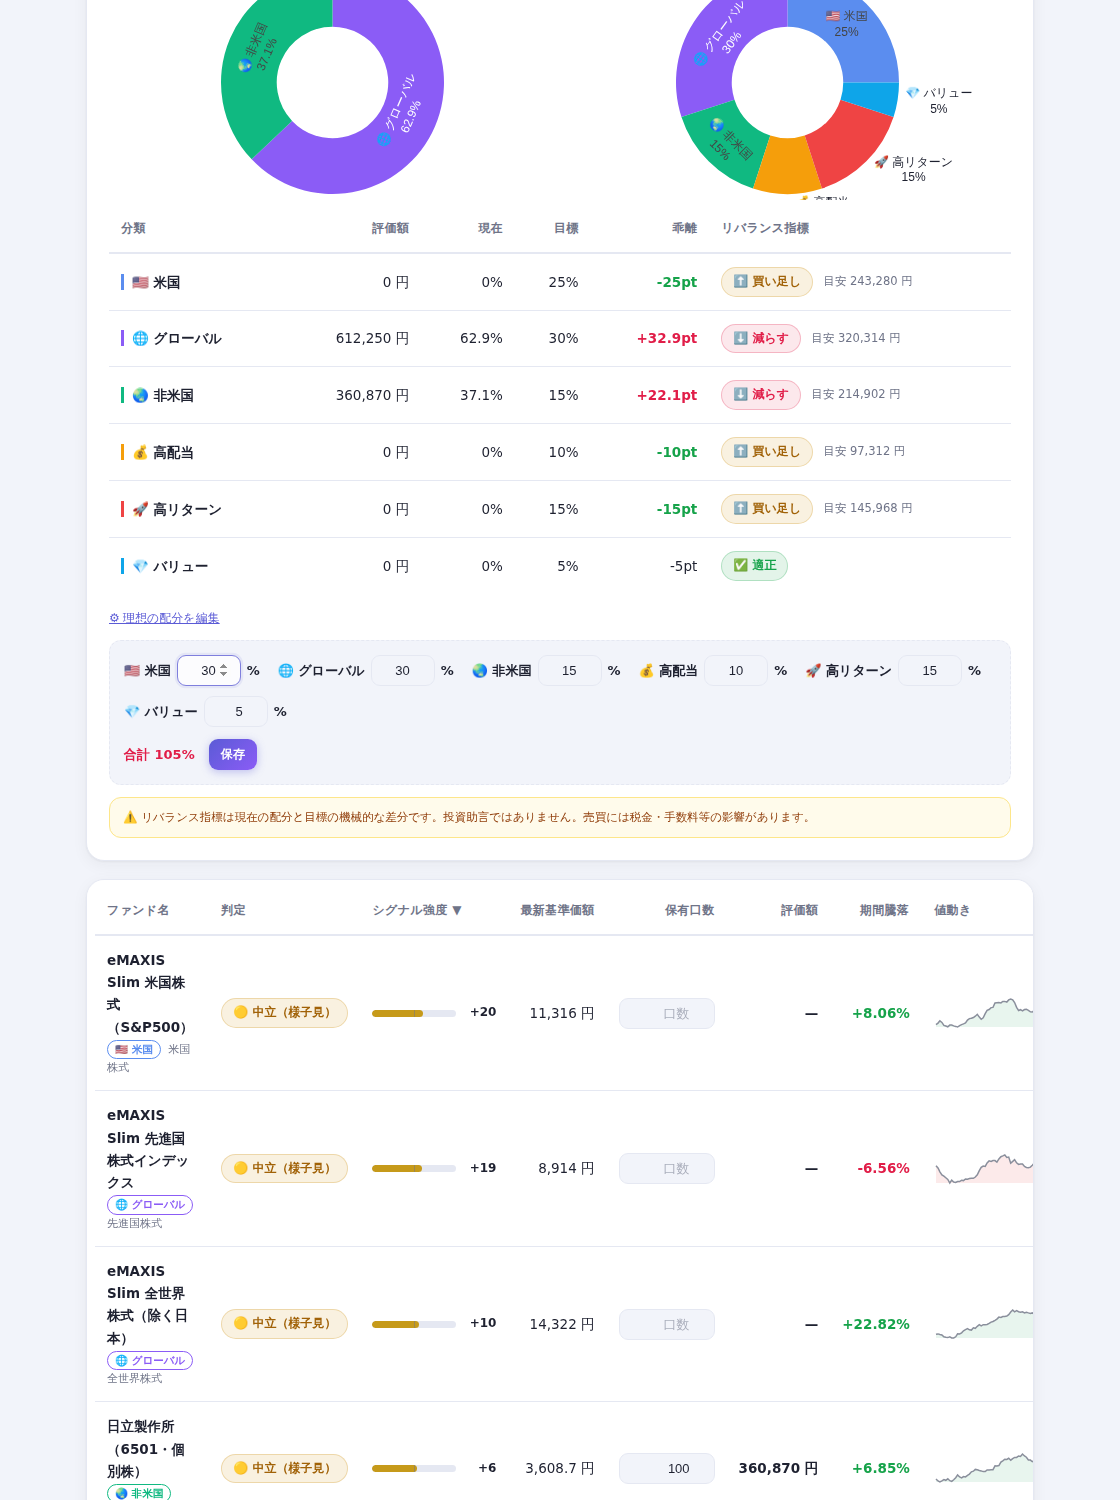
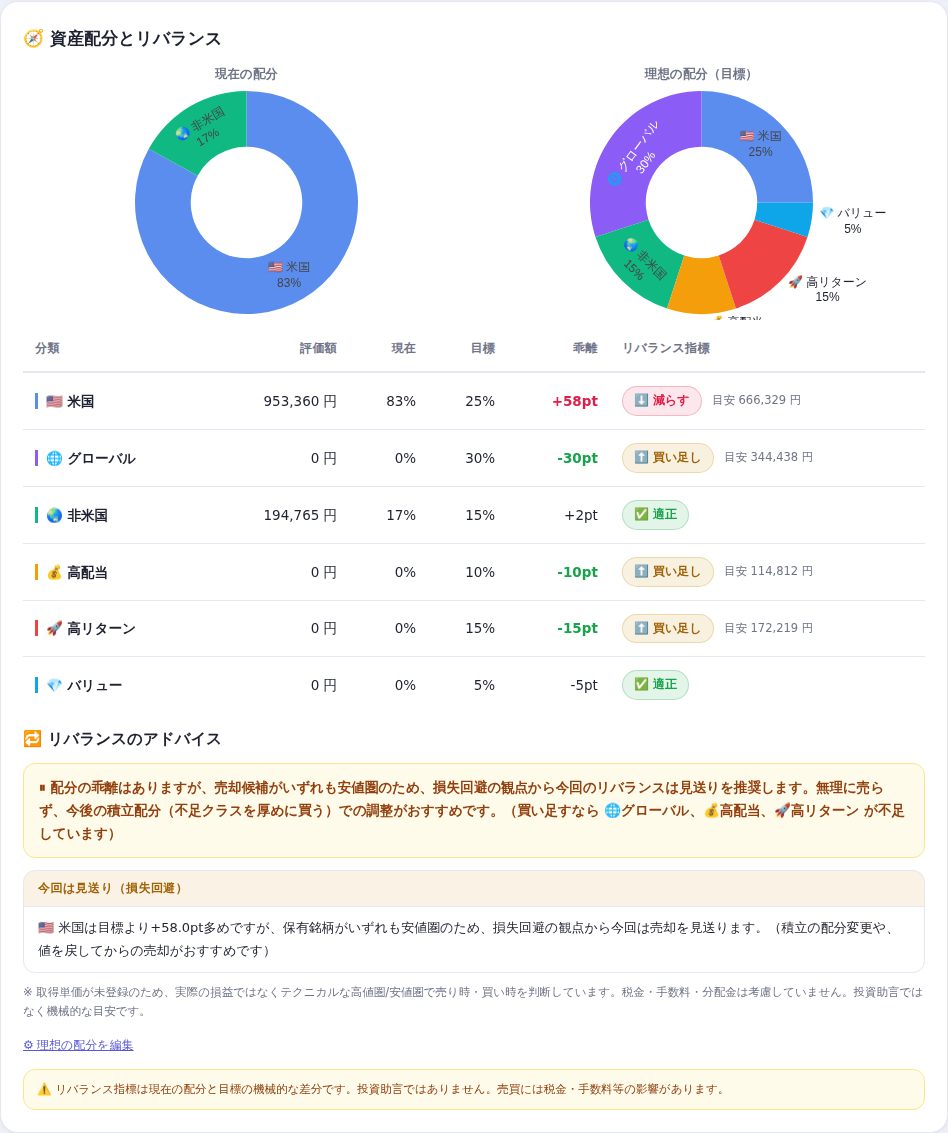
リバランスの具体的な売買アドバイス（売り時/買い時考慮・損失回避の見送り付き）
- どの商品を約いくら売却し、その資金でどのクラスのどの商品を購入すべきかを提示
- 売却はテクニカルで高値圏（過熱=売り時）の銘柄を優先。安値圏の銘柄は
  損失につながりやすいため売却対象から除外
- 過剰クラスの保有が全て安値圏なら「無理にリバランスせず見送り」を提案し、
  積立配分での調整を案内（不足クラス名も表示）
- 乖離が±5pt以内なら「リバランスの必要なし」を表示
- 不足クラスの購入候補はウォッチリスト→内蔵カタログの順で提示（買い時判定付き）
- 取得単価未登録のためテクニカル判断である旨・税金手数料非考慮を明記

Claude-Session: https://claude.ai/code/session_01Haqup2NBS92RVAKcMwLDHU

diff --git a/fund-timing/static/app.js b/fund-timing/static/app.js
@@ -141,6 +141,55 @@ function renderAllocation(alloc) {
   }).join("");
 
   buildTargetInputs(alloc.targets || {});
+  renderRebalancePlan(alloc.plan);
+}
+
+function renderRebalancePlan(plan) {
+  const el = $("rebalance-plan");
+  if (!plan) { el.innerHTML = ""; return; }
+
+  if (plan.status === "no_units") {
+    el.innerHTML = `<div class="plan-banner neutral">💡 ${escapeHtml(plan.summary)}</div>`;
+    return;
+  }
+  if (plan.status === "none") {
+    el.innerHTML = `<div class="plan-banner good">${escapeHtml(plan.summary)}</div>`;
+    return;
+  }
+
+  let html = `<h3 class="plan-title">🔁 リバランスのアドバイス</h3>`;
+  html += `<div class="plan-banner ${plan.status === "defer" ? "warn" : "info"}">${escapeHtml(plan.summary)}</div>`;
+
+  if (plan.sells && plan.sells.length) {
+    html += `<div class="plan-section"><div class="plan-head sell-head">売却する商品</div>` +
+      plan.sells.map((s) => `
+        <div class="plan-row">
+          <span class="plan-cls">${s.icon} ${escapeHtml(s.cls)}</span>
+          <span class="plan-name">${escapeHtml(s.name)}</span>
+          <span class="plan-amount">約 ${Number(s.amount).toLocaleString()} 円</span>
+          <span class="plan-timing">${escapeHtml(s.timing_label)}</span>
+        </div>`).join("") + `</div>`;
+  }
+
+  if (plan.buys && plan.buys.length) {
+    html += `<div class="plan-section"><div class="plan-head buy-head">売却資金で購入する商品</div>` +
+      plan.buys.map((b) => `
+        <div class="plan-row">
+          <span class="plan-cls">${b.icon} ${escapeHtml(b.cls)}</span>
+          <span class="plan-name">${escapeHtml(b.name)}${b.in_watchlist ? "" : '<span class="plan-tag">内蔵リストより</span>'}</span>
+          <span class="plan-amount">約 ${Number(b.amount).toLocaleString()} 円</span>
+          <span class="plan-timing">${escapeHtml(b.timing_label)}</span>
+        </div>`).join("") + `</div>`;
+  }
+
+  if (plan.deferred && plan.deferred.length) {
+    html += `<div class="plan-section"><div class="plan-head defer-head">今回は見送り（損失回避）</div>` +
+      plan.deferred.map((d) => `
+        <div class="plan-defer">${d.icon} ${escapeHtml(d.reason)}</div>`).join("") + `</div>`;
+  }
+
+  if (plan.note) html += `<p class="plan-note">${escapeHtml(plan.note)}</p>`;
+  el.innerHTML = html;
 }
 
 function buildTargetInputs(targets) {

diff --git a/fund-timing/static/style.css b/fund-timing/static/style.css
@@ -428,3 +428,28 @@ tr:hover .row-del { opacity: 1; }
   border-radius: 5px; padding: 0 5px; margin-right: 4px;
 }
 @media (max-width: 680px) { .alloc-charts { grid-template-columns: 1fr; } }
+
+/* ------------------------------------------------ リバランスのアドバイス */
+.rebalance-plan { margin-top: 14px; }
+.plan-title { font-size: 15.5px; margin: 4px 0 10px; }
+.plan-banner { padding: 12px 15px; border-radius: 12px; font-size: 13.5px; font-weight: 600; line-height: 1.7; }
+.plan-banner.good { background: rgba(22,163,74,.10); color: var(--buy); border: 1px solid rgba(22,163,74,.25); }
+.plan-banner.info { background: rgba(91,91,214,.08); color: var(--accent); border: 1px solid rgba(91,91,214,.25); }
+.plan-banner.warn { background: #fffbeb; color: #92400e; border: 1px solid #fde68a; }
+.plan-banner.neutral { background: var(--bg); color: var(--ink-soft); border: 1px dashed var(--line); }
+.plan-section { margin-top: 12px; border: 1px solid var(--line); border-radius: 12px; overflow: hidden; }
+.plan-head { font-size: 12px; font-weight: 800; padding: 8px 14px; letter-spacing: .04em; }
+.sell-head { background: rgba(225,29,72,.08); color: var(--sell); }
+.buy-head { background: rgba(22,163,74,.08); color: var(--buy); }
+.defer-head { background: rgba(202,138,4,.10); color: #a16207; }
+.plan-row { display: flex; align-items: center; gap: 12px; padding: 10px 14px; border-top: 1px solid var(--line); flex-wrap: wrap; }
+.plan-cls { flex: 0 0 auto; font-size: 12px; font-weight: 700; white-space: nowrap; }
+.plan-name { flex: 1 1 200px; font-size: 13.5px; font-weight: 600; }
+.plan-amount { flex: 0 0 auto; font-weight: 800; font-variant-numeric: tabular-nums; white-space: nowrap; }
+.plan-timing { flex: 0 0 auto; font-size: 12px; white-space: nowrap; }
+.plan-tag { display: inline-block; margin-left: 6px; font-size: 10.5px; font-weight: 700; color: var(--accent); border: 1px solid var(--accent); border-radius: 999px; padding: 0 7px; }
+.plan-defer { padding: 10px 14px; border-top: 1px solid var(--line); font-size: 13px; line-height: 1.7; }
+.plan-note { font-size: 11.5px; color: var(--ink-soft); margin: 10px 0 0; }
+@media (prefers-color-scheme: dark) {
+  .plan-banner.warn { background: #2e2812; border-color: #4d4014; color: #e0c56a; }
+}

diff --git a/fund-timing/templates/index.html b/fund-timing/templates/index.html
@@ -92,6 +92,8 @@
           </thead>
           <tbody id="alloc-body"></tbody>
         </table>
+        <div id="rebalance-plan" class="rebalance-plan"></div>
+
         <div class="alloc-edit">
           <button id="edit-targets-btn" type="button" class="linklike">⚙ 理想の配分を編集</button>
           <div id="targets-form" class="targets-form" hidden>

diff --git a/fund-timing/app.py b/fund-timing/app.py
@@ -365,9 +365,153 @@ def _build_allocation(summaries):
                             "share": round(share, 1), "target": 0,
                             "diff": round(share, 1), "action": "reduce",
                             "action_label": "⬇ 減らす", "amount": None})
+    plan = _build_rebalance_plan(summaries, classes, total, any_units)
     return {"ok": True, "weights_mode": "value" if any_units else "equal",
             "total_value": round(total) if any_units else None,
-            "classes": classes, "targets": targets}
+            "classes": classes, "targets": targets, "plan": plan}
+
+
+def _timing_score(s):
+    """銘柄の現在のタイミングスコア（+=押し目/買い時, −=過熱/売り時）。"""
+    scores = [h["score"] for h in (s.get("hz") or [])
+              if h.get("ok") and h.get("key") in ("short", "mid") and h.get("score") is not None]
+    if scores:
+        return sum(scores) / len(scores)
+    return s.get("score") or 0
+
+
+def _sell_timing(ts):
+    if ts <= -15:
+        return "good", "🟢 売り時（過熱・高値圏）"
+    if ts >= 20:
+        return "bad", "🔴 安値圏（今売ると損になりやすい）"
+    return "neutral", "🟡 中立（売却可）"
+
+
+def _buy_timing(ts):
+    if ts >= 20:
+        return "good", "🟢 買い時（押し目）"
+    if ts <= -15:
+        return "caution", "🟠 過熱圏（積立での購入向き）"
+    return "neutral", "🟡 中立"
+
+
+def _build_rebalance_plan(summaries, classes, total, any_units):
+    """具体的な売買アドバイス：どれを売り、その資金でどれを買うか。
+
+    売りはテクニカルで高値圏の銘柄を優先し、安値圏の銘柄は損失回避のため除外。
+    売却候補が全て安値圏のクラスは「見送り」にする（無理にリバランスしない）。
+    """
+    import seed_funds
+    if not any_units:
+        return {"status": "no_units",
+                "summary": "保有口数を入力すると、具体的な売買アドバイスを表示します。"}
+
+    icon_of = {name: icon for name, icon, _ in seed_funds.ASSET_CLASSES}
+    over = [c for c in classes if c["diff"] > 5]
+    under = [c for c in classes if c["diff"] < -5]
+    if not over and not under:
+        return {"status": "none",
+                "summary": "✅ リバランスの必要はありません。全クラスが目標との乖離±5pt以内です。"}
+
+    ok_items = [s for s in summaries if s.get("ok") and (s.get("value") or 0) > 0]
+
+    sells, deferred = [], []
+    proceeds = 0.0
+    for c in over:
+        excess = c["diff"] / 100.0 * total
+        funds = [s for s in ok_items
+                 if (s.get("asset_class") or "") == c["name"]]
+        funds.sort(key=_timing_score)  # 過熱（負のスコア）が先＝売り時から
+        sellable = [f for f in funds if _timing_score(f) < 20]
+        if not sellable:
+            deferred.append({
+                "cls": c["name"], "icon": c["icon"],
+                "reason": (f"{c['name']}は目標より{c['diff']:+.1f}pt多めですが、"
+                           "保有銘柄がいずれも安値圏のため、損失回避の観点から今回は売却を見送ります。"
+                           "（積立の配分変更や、値を戻してからの売却がおすすめです）"),
+            })
+            continue
+        remaining = excess
+        for f in sellable:
+            if remaining <= total * 0.01:
+                break
+            amt = min(remaining, f["value"])
+            if amt < total * 0.01:
+                continue
+            ts = _timing_score(f)
+            timing, timing_label = _sell_timing(ts)
+            sells.append({"name": f["name"], "cls": c["name"], "icon": c["icon"],
+                          "amount": round(amt), "timing": timing,
+                          "timing_label": timing_label})
+            proceeds += amt
+            remaining -= amt
+
+    buys = []
+    if under and proceeds > 0:
+        shortfall_total = sum(-c["diff"] for c in under)
+        for c in under:
+            budget = proceeds * (-c["diff"]) / shortfall_total if shortfall_total else 0
+            if budget < total * 0.01:
+                continue
+            cand = _buy_candidate_for_class(summaries, c["name"])
+            buys.append({"name": cand["name"], "cls": c["name"], "icon": c["icon"],
+                         "amount": round(budget),
+                         "timing": cand["timing"], "timing_label": cand["timing_label"],
+                         "in_watchlist": cand["in_watchlist"]})
+
+    if sells:
+        status = "partial" if deferred else "ok"
+        summary = (f"🔁 以下の売買で目標配分に近づけられます"
+                   f"（約 {round(proceeds):,} 円を移動）。")
+        if deferred:
+            summary += " 一部のクラスは安値圏のため見送りです。"
+    elif deferred:
+        status = "defer"
+        summary = ("⏸ 配分の乖離はありますが、売却候補がいずれも安値圏のため、"
+                   "損失回避の観点から今回のリバランスは見送りを推奨します。"
+                   "無理に売らず、今後の積立配分（不足クラスを厚めに買う）での調整がおすすめです。")
+        if under and any_units:
+            add_names = "、".join(f"{icon_of.get(c['name'],'')}{c['name']}" for c in under)
+            summary += f"（買い足すなら {add_names} が不足しています）"
+    else:
+        status = "none"
+        summary = "✅ 大きな乖離はありません。リバランスの必要はありません。"
+
+    return {"status": status, "summary": summary,
+            "sells": sells, "buys": buys, "deferred": deferred,
+            "note": ("※ 取得単価が未登録のため、実際の損益ではなくテクニカルな高値圏/安値圏で"
+                     "売り時・買い時を判断しています。税金・手数料・分配金は考慮していません。"
+                     "投資助言ではなく機械的な目安です。")}
+
+
+def _buy_candidate_for_class(summaries, cls_name):
+    """不足クラスの購入候補：ウォッチリスト内 → 内蔵カタログの順で探す。"""
+    in_watch = [s for s in summaries if s.get("ok")
+                and (s.get("asset_class") or "") == cls_name]
+    if in_watch:
+        best = max(in_watch, key=_timing_score)
+        timing, label = _buy_timing(_timing_score(best))
+        return {"name": best["name"], "timing": timing, "timing_label": label,
+                "in_watchlist": True}
+    # ウォッチリストに無ければ内蔵カタログから提案（価格キャッシュがあれば買い時判定）
+    rows = [r for r in db.search_catalog("", limit=500)
+            if (r.get("asset_class") or "") == cls_name]
+    for r in rows:
+        cached = db.get_cached_series(r["isin"], r["assoc_code"], max_age_hours=24 * 7)
+        if cached and len(cached.get("nav", [])) >= 90:
+            hz = signal_mod.analyze_horizons(cached["dates"], cached["nav"])
+            scores = [h["score"] for h in hz if h.get("ok") and h["key"] in ("short", "mid")]
+            ts = sum(scores) / len(scores) if scores else 0
+            timing, label = _buy_timing(ts)
+            return {"name": r["name"], "timing": timing, "timing_label": label,
+                    "in_watchlist": False}
+    if rows:
+        return {"name": rows[0]["name"], "timing": "unknown",
+                "timing_label": "（一覧に追加すると買い時判定が出ます）",
+                "in_watchlist": False}
+    return {"name": f"{cls_name}クラスの投信（内蔵リストにありません）",
+            "timing": "unknown", "timing_label": "", "in_watchlist": False}
 
 
 @app.route("/api/targets", methods=["GET", "POST"])

diff --git a/fund-timing/README.md b/fund-timing/README.md
@@ -13,6 +13,7 @@
 - 📈 **詳細分析**：一覧の行をクリックすると、値動きグラフ（基準価額＋移動平均線＋ボリンジャーバンド）、売買サインのマーカー、RSIサブチャート、判断根拠、過去サイン一覧を表示
 - 💼 **保有者向け 時間軸別の目安**：保有している前提で、短期（〜1ヶ月）・中期（3ヶ月〜1年）・長期（1年〜）それぞれについて「買い増し検討／ホールド／一部売却検討」の水準と具体的なコメントを表示。時間軸ごとに異なる指標（短期=RSI・ボリンジャー、中期=移動平均クロス、長期=200日線・高値からの位置など）で判定します（※投資助言ではなくテクニカルの機械的な目安です）
 - 🧭 **資産配分とリバランス**：保有商品を6分類（🇺🇸米国／🌐グローバル／🌏非米国／💰高配当／🚀高リターン／💎バリュー）に自動分類し、一覧にアイコン表示。現在の配分と理想の配分（編集可）を**円グラフ**で並べて表示し、クラスごとに「✅適正／⬆買い足し／⬇減らす」のリバランス指標と目安金額を表示します
+- 🔁 **リバランスの売買アドバイス**：どの商品を約いくら売却し、その資金でどの商品を購入すべきかを具体的に提示。売却はテクニカルで高値圏（売り時）の銘柄を優先し、安値圏の銘柄は「今売ると損になりやすい」ため対象から除外。売却候補が全て安値圏なら**無理にリバランスせず「見送り」**を提案します。乖離が±5pt以内なら「必要なし」と表示（※取得単価は未登録のため、実際の損益ではなくテクニカルな高値圏/安値圏で判断します）
 - 🏭 **個別株にも対応**：日立製作所（6501）を内蔵（株価はStooqの公開CSVから取得、評価額=株価×株数）。ポートフォリオに自動で組み込まれます
 
 ![資産配分とリバランス](docs/allocation.png)
